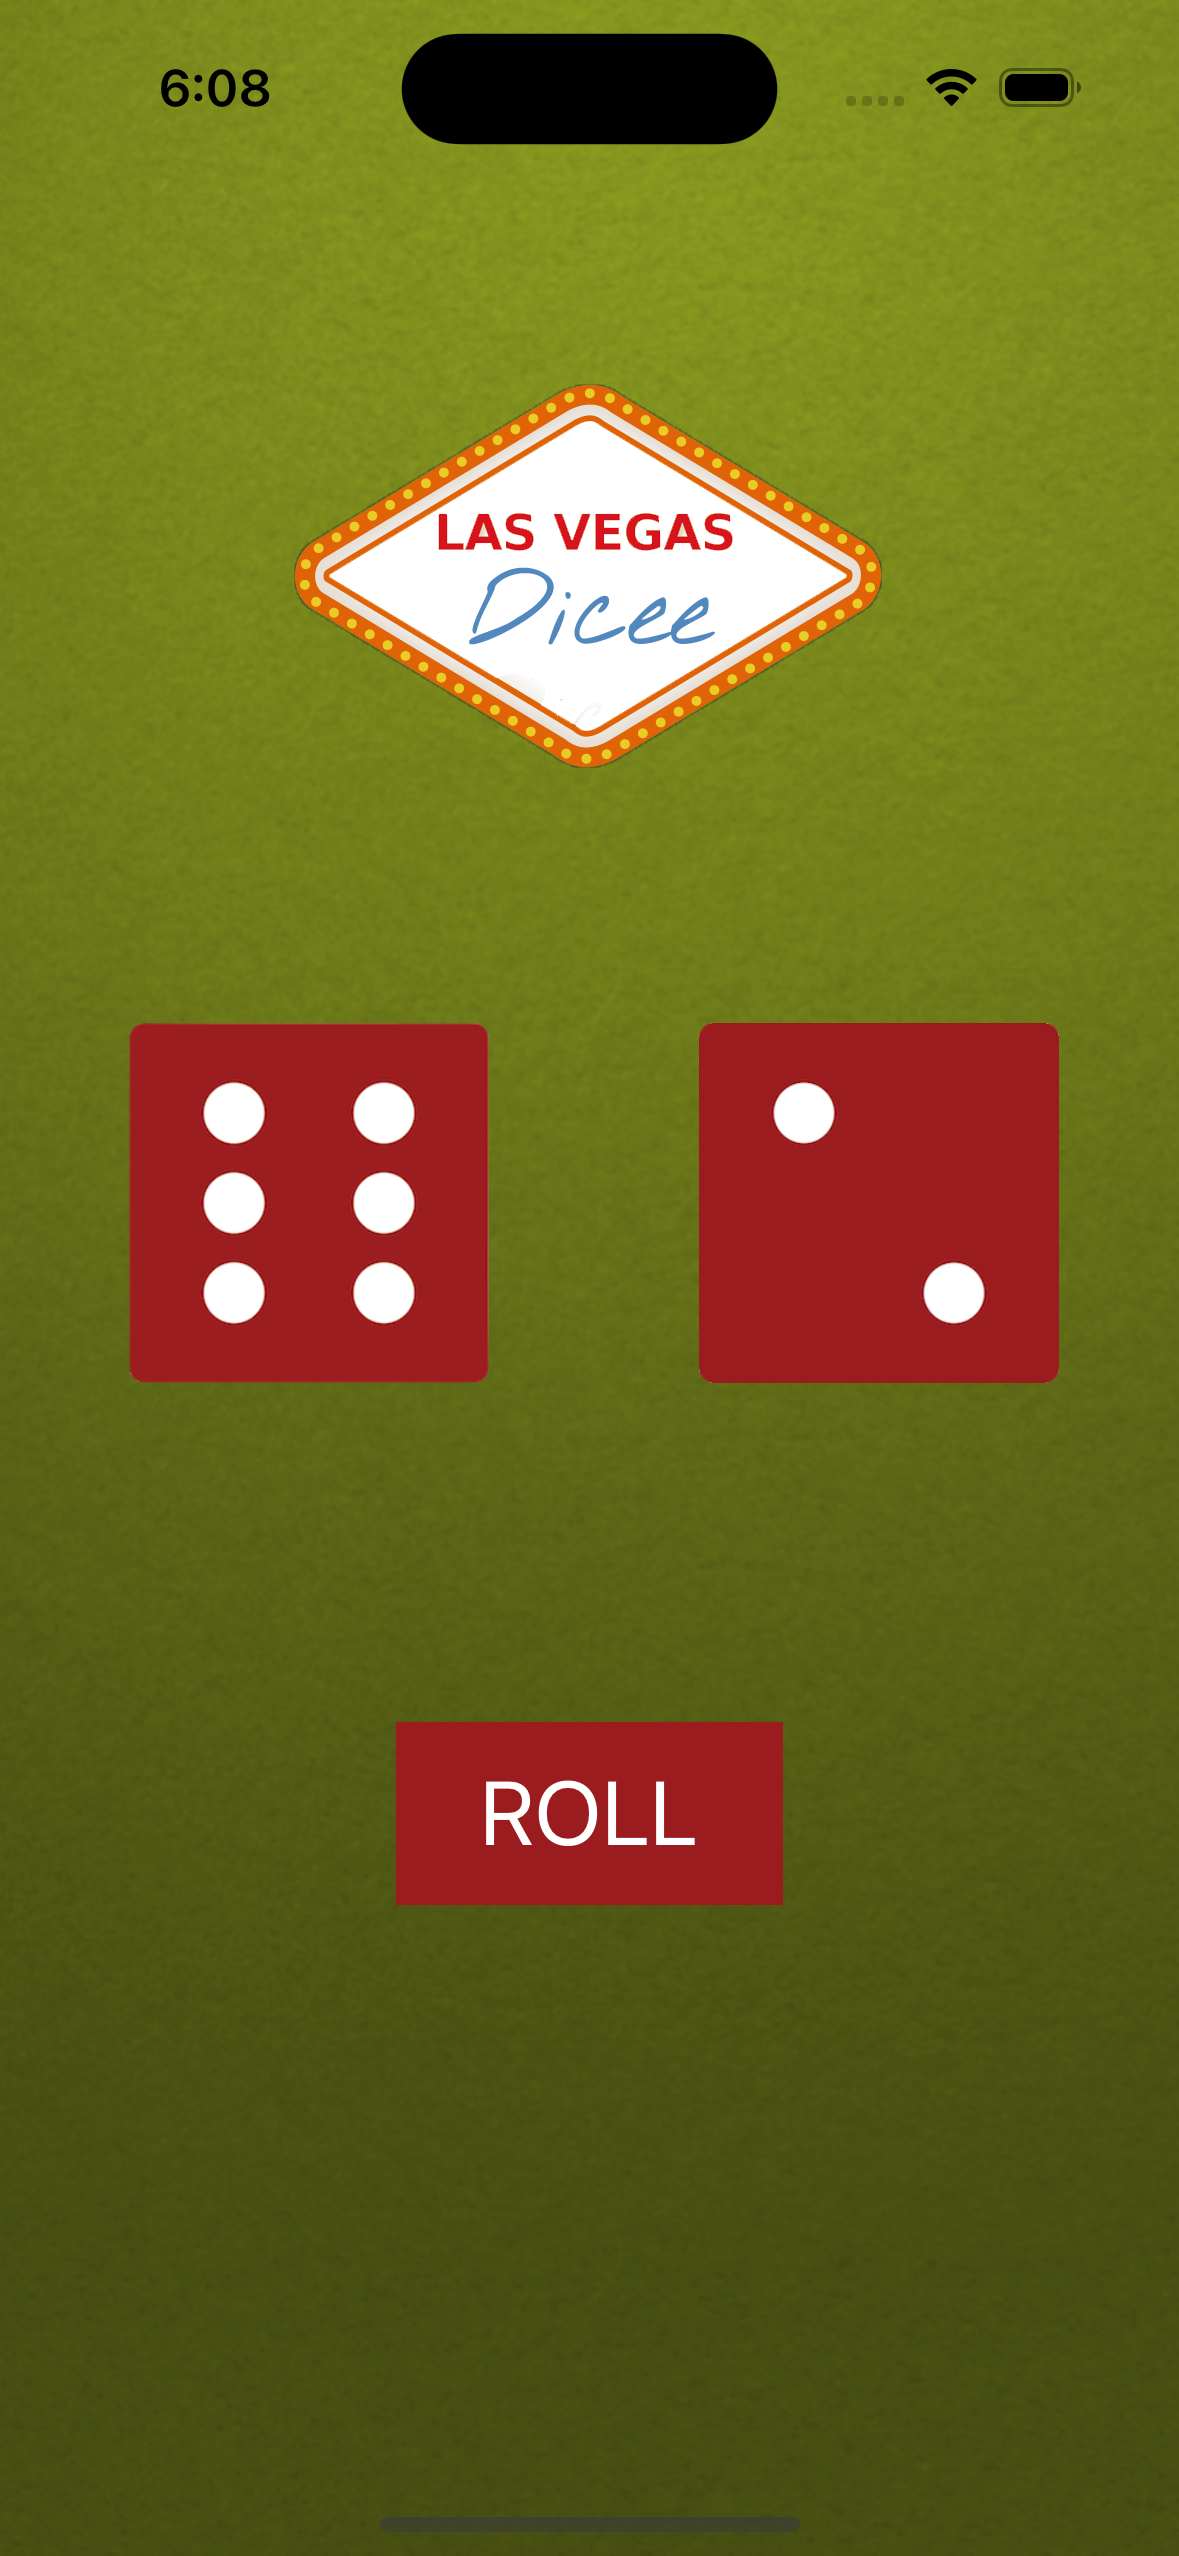
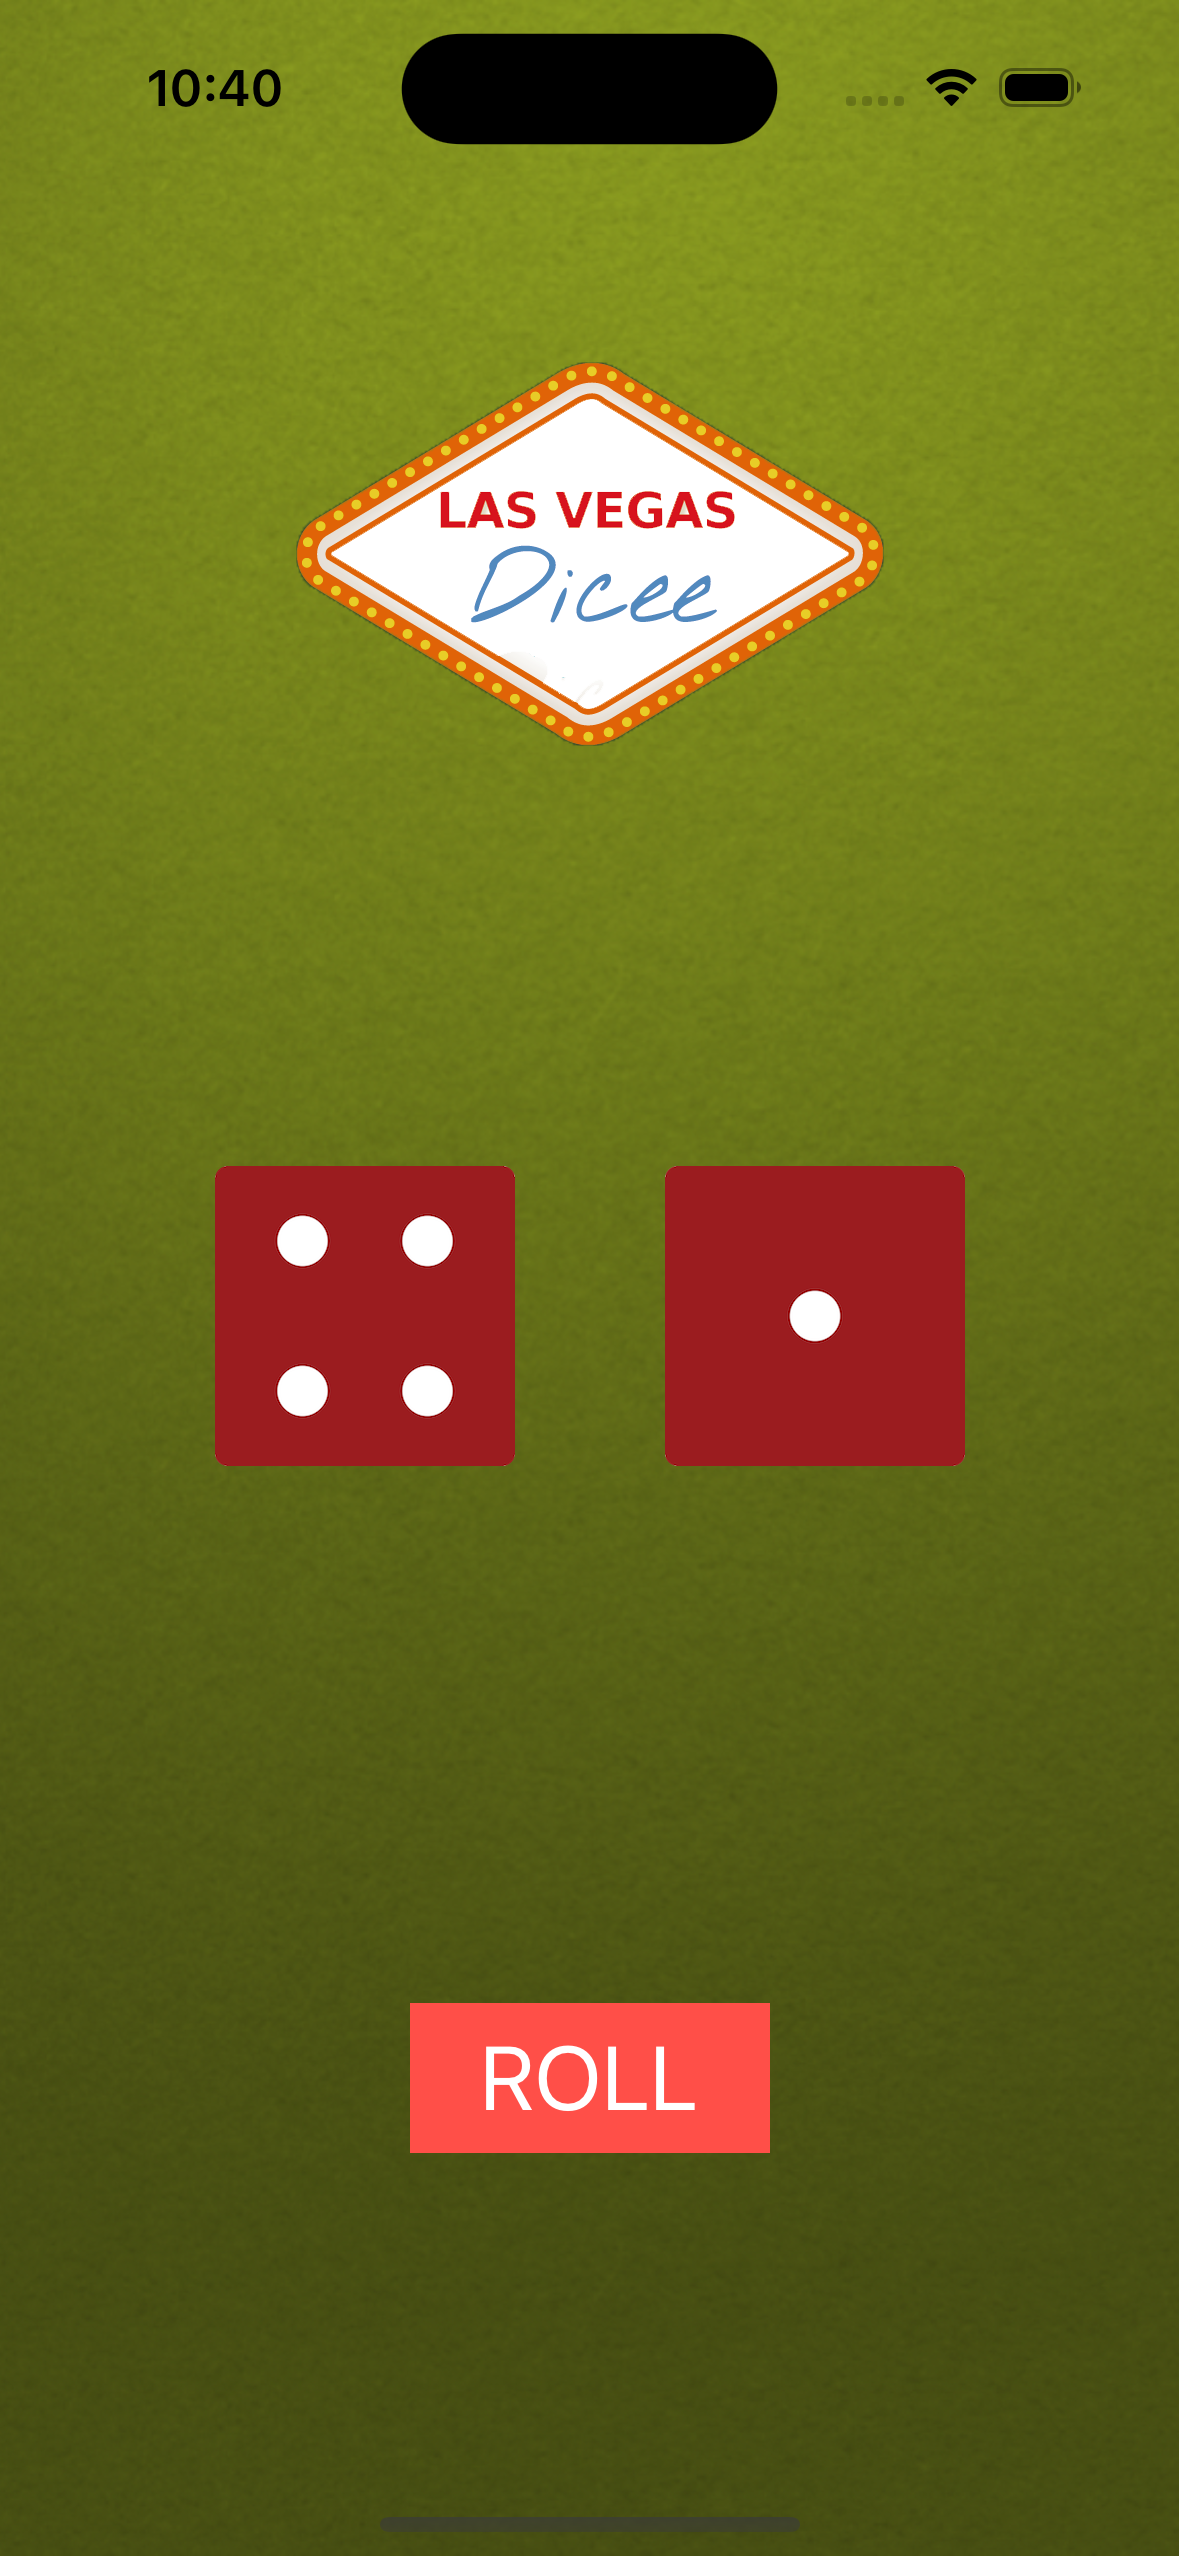
add home landscape

diff --git a/README.md b/README.md
@@ -2,10 +2,8 @@ Dice App iOS
 
 <p float="left">
     <img src="home.png" width="270" />
-    <img src="launch2.png" width="270" />
-    <img src="launch2.png" width="270" />
+    <img src="home-landscape.png" width="540" />
 </p>
 <p float="left">
-    <img src="launch2.png" width="270" />
-    <img src="launch1.png" width="270" />
+    <img src="launch.png" width="270" />
 </p>
